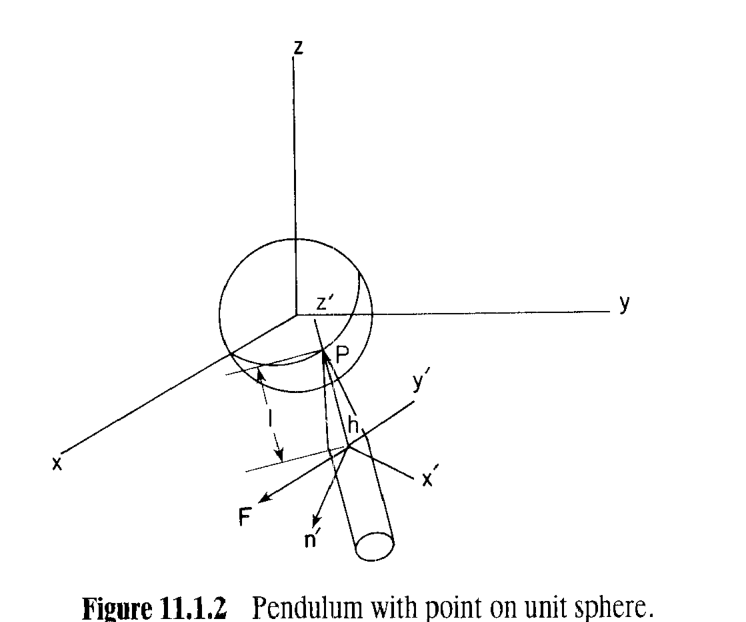
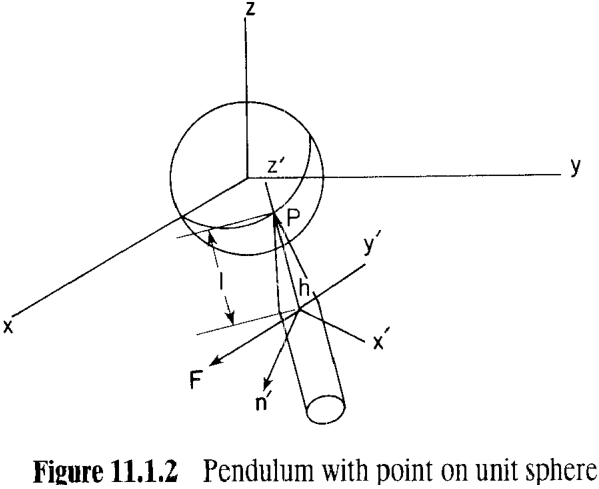
continue to polish 11.1

diff --git a/Computer Aided Kinematics and Dynamics of Mechanical Systems/wiki/11.1-equations-of-motion-of-a-rigid-body.md b/Computer Aided Kinematics and Dynamics of Mechanical Systems/wiki/11.1-equations-of-motion-of-a-rigid-body.md
@@ -264,88 +264,85 @@ $$m\ddot{\mathbf r}=\mathbf F,\qquad \mathbf J'\dot{\boldsymbol\omega}'=\mathbf 
 
 ## 六、例题
 
-### 例 11.1.1：球面上的摆——约束如何进入运动方程
+### 例1：球面上的摆——约束如何进入运动方程
 
 > 刚体上 $z'$ 轴上一点 $P$ 被约束在单位球面上运动（Fig. 11.1.2）。
 
 ![图 11.1.2 球面约束的摆](figures/computer-aided-kinematics-and-dynamics/fig_11_1_2_pendulum_unit_sphere.png)
 
-把 $P$ 取在 $z'$ 轴上，则 $\mathbf s'^P=\mathbf h'$（$z'$ 轴的惯性位置为 $\mathbf r+A\mathbf h'$。点 $P$ 落在单位球面上即 $(\mathbf r+A\mathbf h')^T(\mathbf r+A\mathbf h')=1$，故约束方程为
+#### - 求约束方程的变分形式
 
-$$\Phi=(\mathbf r+A\mathbf h')^T(\mathbf r+A\mathbf h')-1=0$$
+$P$ 在刚体坐标系中的位置向量为 $\mathbf s'^P=\mathbf h'$。点 $P$ 落在单位球面上，故约束方程为
 
-#### 第一步：约束的变分（原书给的四行，逐行补理由）
+$$\Phi=(\mathbf r+\mathbf A\mathbf h')^T(\mathbf r+\mathbf A\mathbf h')-1=0$$
 
-$$\delta\Phi=2(\mathbf r+A\mathbf h')^T(\delta\mathbf r+\delta\mathbf A\mathbf h')$$
+求变分得到：
 
-$$=2(\mathbf r+A\mathbf h')^T\delta\mathbf r+2(\mathbf r+A\mathbf h')^T\mathbf A\delta\tilde{\boldsymbol\pi}'\mathbf h'$$
+$$
+\delta\Phi=2(\mathbf r+\mathbf A\mathbf h')^T(\delta\mathbf r+\delta\mathbf A\mathbf h')
+$$
 
-（用 §9.2 的虚旋转公式 $\delta\mathbf A\mathbf h'=\mathbf A\delta\tilde{\boldsymbol\pi}'\mathbf h'$，Eq. 9.2.47；再用 (9.1.25) 把 $\delta\tilde{\boldsymbol\pi}'\mathbf h'$ 翻成 $-\tilde{\mathbf h}'\delta\boldsymbol\pi'$）
+根据 Eq. 9.2.47，$\delta\mathbf A\mathbf h'=\mathbf A\delta\tilde{\boldsymbol\pi}'\mathbf h'$，代入得到：
 
-$$=2(\mathbf r+A\mathbf h')^T\delta\mathbf r-2(\mathbf r+A\mathbf h')^T\mathbf A\tilde{\mathbf h}'\delta\boldsymbol\pi'$$
+$$
+\begin{aligned}
+\delta\Phi&=2(\mathbf r+\mathbf A\mathbf h')^T\delta\mathbf r+2(\mathbf r+A\mathbf h')^T\mathbf A\delta\tilde{\boldsymbol\pi}'\mathbf h'\\
+&=2(\mathbf r+\mathbf A\mathbf h')^T\delta\mathbf r-2(\mathbf r+\mathbf A\mathbf h')^T\mathbf A\tilde{\mathbf h}'\delta\boldsymbol\pi'\\
+&=2(\mathbf r+\mathbf A\mathbf h')^T\delta\mathbf r-\bigl(2\mathbf r^T\mathbf A\tilde{\mathbf h}'+2\mathbf h'^T\mathbf A^T\mathbf A\tilde{\mathbf h}'\bigr)\delta\boldsymbol\pi'
+\end{aligned}
+$$
 
-$$=2(\mathbf r+A\mathbf h')^T\delta\mathbf r-\bigl(2\mathbf r^T\mathbf A\tilde{\mathbf h}'+2\mathbf h'^T\tilde{\mathbf h}'\bigr)\delta\boldsymbol\pi'$$
+注意到，$\mathbf A^T\mathbf A=\mathbf I$，而 $\mathbf h'^T\tilde{\mathbf h}'\delta\boldsymbol\pi=\mathbf h'^T(\mathbf h'\times\delta\boldsymbol\pi)=0$，因此得到：
 
-（展开 $(\mathbf r+A\mathbf h')^T\mathbf A\tilde{\mathbf h}'=\mathbf r^T\mathbf A\tilde{\mathbf h}'+\mathbf h'^T\mathbf A^T\mathbf A\tilde{\mathbf h}'$，而 $\mathbf A^T\mathbf A=\mathbf I$）
+$$
+\delta\Phi=2(\mathbf r+A\mathbf h')^T\delta\mathbf r-\bigl(2\mathbf r^T\mathbf A\tilde{\mathbf h}'\bigr)\delta\boldsymbol\pi'=0
+$$
 
-$$=2(\mathbf r+A\mathbf h')^T\delta\mathbf r-\bigl(2\mathbf r^T\mathbf A\tilde{\mathbf h}'\bigr)\delta\boldsymbol\pi'=0$$
+#### - 应用拉格朗日乘子定理
 
-（最后一步用 $\mathbf h'^T\tilde{\mathbf h}'=\mathbf h'^T(\mathbf h'\times\cdot)=0$，因为 $\tilde{\mathbf h}'\mathbf h'=\mathbf h'\times\mathbf h'=\mathbf 0$）
-
-#### 第二步：拉格朗日乘子把约束"抬"进方程
-
-根据 6.3.2 拉格朗日乘子定理，(11.1.19) 只对**与约束相容**的虚位移成立，而 $\delta\Phi=0$ 正是那个相容性的一阶条件。把 $\lambda\,\delta\Phi$ 加进 (11.1.19) 后，$\delta\mathbf r,\delta\boldsymbol\pi'$ 可以任意选取，各自系数为零：
+原 Eq 11.1.19 只对**与约束相容**的虚位移成立，根据 6.3.2 拉格朗日乘子定理，将上式引入 Eq 11.1.19 后，下面方程对任意 $\delta\mathbf r,\delta\boldsymbol\pi'$ 成立：
 
 $$\delta\mathbf r^T\bigl[m\ddot{\mathbf r}-\mathbf F+2\lambda(\mathbf r+\mathbf A\mathbf h')\bigr]+\delta\boldsymbol\pi'^T\bigl[\mathbf J'\dot{\boldsymbol\omega}'+\tilde{\boldsymbol\omega}'\mathbf J'\boldsymbol\omega'-\mathbf n'+2\lambda\tilde{\mathbf h}'\mathbf A^T\mathbf r\bigr]=0$$
 
-（$\delta\boldsymbol\pi'$ 里的附加项：$-2\lambda\mathbf r^T\mathbf A\tilde{\mathbf h}'\delta\boldsymbol\pi'=+2\lambda(\tilde{\mathbf h}'\mathbf A^T\mathbf r)^T\delta\boldsymbol\pi'$，用到 $\mathbf r^T\mathbf A\tilde{\mathbf h}'=-(\tilde{\mathbf h}'\mathbf A^T\mathbf r)^T$。）
-
-#### 第三步：运动方程
+由于对任意 $\delta\mathbf r,\delta\boldsymbol\pi'$ 成立，因此方程中各自系数为零：
 
 $$\boxed{m\ddot{\mathbf r}+2(\mathbf r+\mathbf A\mathbf h')\lambda=\mathbf F}\qquad\boxed{\mathbf J'\dot{\boldsymbol\omega}'+2\tilde{\mathbf h}'\mathbf A^T\mathbf r\,\lambda=\mathbf n'-\tilde{\boldsymbol\omega}'\mathbf J'\boldsymbol\omega'}$$
 
 加上约束方程 $\Phi=0$，共 7 个方程解 7 个未知量 $(\mathbf r,\mathbf p,\lambda)$。
 
-**物理意义**：$\lambda$ 就是球面约束的乘子，$2\lambda(\mathbf r+A\mathbf h')$ 是沿**球面法线**（即从球心指向 $P$ 的方向 $\mathbf r^P$）的约束力——与平面 §6.6 的"乘子 = 约束反力"结论完全一致。另外注意：**约束项以 $\delta\Phi$ 的形式进入，形式与碰到的具体约束无关**——这正是后面 §11.3 处理整个多体系统的统一入口。
-
-### E. 一点固定的刚体：非质心随动系与欧拉方程（Eq. 11.1.21–11.1.23）
+### 例2. 一点固定的刚体：非质心随动系与欧拉方程
 
 > 
 ![图 11.1.3 一点固定的刚体](figures/computer-aided-kinematics-and-dynamics/fig_11_1_3_point_fixed.png)
 
-#### 思路
 
-陀螺、单摆、绕固定轴转的曲柄，都有**一个点 $O''$ 在惯性空间中不动**（Fig. 11.1.3 里画成地面斜线阴影的连接点）。此时平移三个自由度整体消失，方程应该只剩转动部分。但**质心一般不在 $O''$ 上**，所以随动系必须改放到 $O''$（记 $x''\text{-}y''\text{-}z''$，原点 $O''$），此时 (11.1.13) 的 $\int\mathbf s''^Pdm=\mathbf 0$ **不再成立**。所幸 (11.1.11) 里含 $\int\mathbf s''^Pdm$ 的两项都还带着 $\delta\mathbf r$ 或 $\ddot{\mathbf r}$，而它们被固定点条件直接杀掉了。
+#### - 一点固定的刚体坐标系
 
-#### E.1 固定点的运动学条件（Eq. 11.1.21）
+如上图，刚体上有**一点 $O''$ 在惯性空间中不动**，但**质心不在 $O''$ 上**。此时刚体坐标系原点选择 $O''$（记 $x''\text{-}y''\text{-}z''$，原点 $O''$）。
+
+此时， (11.1.13) 的 $\int\mathbf s''^Pdm=\mathbf 0$ **不再成立**。所幸 (11.1.11) 里含 $\int\mathbf s''^Pdm$ 的两项都还带着 $\delta\mathbf r$ 或 $\ddot{\mathbf r}$，在固定点下他们会归零，这是因为：
 
 $$\mathbf r=\mathbf c,\qquad \dot{\mathbf r}=\ddot{\mathbf r}=\mathbf 0,\qquad \delta\mathbf r=\mathbf 0 \tag{11.1.21}$$
 
-（$\mathbf r$ 是 $O''$ 的惯性位置；$\delta\mathbf r=\mathbf 0$ 因为 $O''$ 不允许有任何虚位移。）
-
-#### E.2 代入 (11.1.11)（Eq. 11.1.22）
-
-逐项过一遍（系名换成 $x''\text{-}y''\text{-}z''$，$\mathbf s''^P$ 自 $O''$ 量起）：
+#### - 重新探究 11.1.11 中刚体受力的七个子项
 
 - ① 项 $\delta\mathbf r^T\ddot{\mathbf r}\int dm$：含 $\delta\mathbf r$ ⇒ 消失；
 - ② 项 $\delta\mathbf r^T\mathbf A(\cdots)\int\mathbf s''^Pdm$：含 $\delta\mathbf r$ ⇒ 消失（**与 $\int\mathbf s''^Pdm\ne\mathbf 0$ 无关**，这是关键）；
 - ③ 项 $\delta\boldsymbol\pi''^T\int\mathbf s''^Pdm\,\mathbf A^T\ddot{\mathbf r}$：含 $\ddot{\mathbf r}=\mathbf 0$ ⇒ 消失；
 - ⑥ 项 $-\delta\mathbf r^T\int\mathbf Fdm$：含 $\delta\mathbf r$ ⇒ 消失；
-- ④⑤⑦ 项保留，其推导与 §D.3、§D.4、§D.2 一字不差（$\mathbf s'\to\mathbf s''$、$\boldsymbol\omega'\to\boldsymbol\omega''$；积分值不同，但定义式同型），得 $\mathbf J''\dot{\boldsymbol\omega}''$、$\tilde{\boldsymbol\omega}''\mathbf J''\boldsymbol\omega''$、$\mathbf n''$。
+- ④⑤⑦ 项保留，其推导与原之前相同，得 $\mathbf J''\dot{\boldsymbol\omega}''$、$\tilde{\boldsymbol\omega}''\mathbf J''\boldsymbol\omega''$、$\mathbf n''$。
+
+最终，该刚体的受力表示如下，对一切与**附加姿态约束**相容的虚转动 $\delta\boldsymbol\pi''$ 成立：
 
 $$\delta\boldsymbol\pi''^T\bigl[\mathbf J''\dot{\boldsymbol\omega}''+\tilde{\boldsymbol\omega}''\mathbf J''\boldsymbol\omega''-\mathbf n''\bigr]=0 \tag{11.1.22}$$
 
-对一切与**附加姿态约束**相容的虚转动 $\delta\boldsymbol\pi''$ 成立。
+#### - 无姿态约束的陀螺
 
-**这就是"一点固定"的价值**：平移方程被自动消掉，只剩一个 3 维的转动虚功方程。同时它也告诉我们，若还要给姿态加约束（例如把陀螺装进万向支架），只要把对应的 $\lambda\delta\Phi$ 加进来即可，形式与例 11.1.1 完全一样。
-
-#### E.3 无姿态约束 ⇒ 欧拉方程（Eq. 11.1.23）
-
-$\delta\boldsymbol\pi''$ 任意 ⇒ 系数为零：
+若没有约束，则 Eq 11.1.22 对任意 $\delta\boldsymbol\pi''$ 成立，则其系数为 0，得到：
 
 $$\mathbf J''\dot{\boldsymbol\omega}''=\mathbf n''-\tilde{\boldsymbol\omega}''\mathbf J''\boldsymbol\omega'' \tag{11.1.23}$$
 
-即刚体的**欧拉方程（Euler equations of motion）**。原书提醒：**右端的角速度非线性使封闭解一般不存在**——陀螺运动"难"的数学根源就在这里（历史上只有 Kovalevskaya 那一类可积特例）。
+即得到陀螺的**欧拉方程（Euler equations of motion）**。需要注意的是，**右端的角速度非线性使封闭解一般不存在**——历史上只有 Kovalevskaya 那一类可积特例。
 
 ### 例 11.1.2：绕 $y$ 轴转动的摆（惯性积如何变成反力矩）
 
@@ -423,18 +420,3 @@ $$T_{x''}=J_{z''y''}\dot\phi^2+J_{x''y''}\ddot\phi-n_{x''},\qquad T_{z''}=-J_{x'
 | $J'$ 为标量 | $\mathbf J'$ 为 3×3 对称矩阵（Eq. 11.1.17） | 空间存在**惯性积** |
 | 平行轴定理 $J''=J'+m\lvert\boldsymbol\rho''\rvert^2$（Eq. 6.1.22） | $\mathbf J''=\mathbf C^T\mathbf J'\mathbf C+m(\cdots)$（§11.2） | 空间需旋转变换 |
 | $\omega'$ 即 $\dot\phi$，可直接积分 | $\boldsymbol\omega'$ 是准坐标，**不能积分**（§9.3） | 必须引入 Euler 参数（§11.3） |
-
-### 本节小结
-
-1. **一条思路贯穿全节**：微元牛顿方程 →（虚位移加权）消内力 → 展开成七项 → 把积分一个个"认出来"（$m$、$\mathbf 0$、$\mathbf J'$、$\mathbf F$、$\mathbf n'$）→ 变分 Newton–Euler 方程。
-2. **质心随体系的价值**：只用一个条件 $\int\mathbf s'^Pdm=\mathbf 0$，就把七项砍到五项——平面与空间共用这一招。
-3. **空间新增的两样东西**：$\mathbf J'$ 是矩阵（多出惯性积）、旋转方程多出陀螺项 $\tilde{\boldsymbol\omega}'\mathbf J'\boldsymbol\omega'$。前者在**反力矩**中显形（例 11.1.2），后者在**运动本身**中显形（欧拉方程无非线性不可解）。
-4. **约束的统一入口**：$\lambda\,\delta\Phi$ 加进变分方程——例 11.1.1 演示了这一步，§11.3 把它系统化到多体系统（$\boldsymbol\Phi_\mathbf q^T\boldsymbol\lambda$ 就此出现）。
-
-### 原书习题对应
-
-| 习题 | 内容 | 对应本文 |
-|------|------|----------|
-| Prob. 11.1.1 | 证明 (11.1.3) 的对称化 | §B.2 |
-| Prob. 11.1.2 | 展开 (11.1.10) 得 (11.1.11) | §C.3 |
-| Prob. 11.1.3 | 说明 $\boldsymbol\omega'$ 为何不能直接积分、为何需要 Euler 参数 | §D.5 末尾 |
